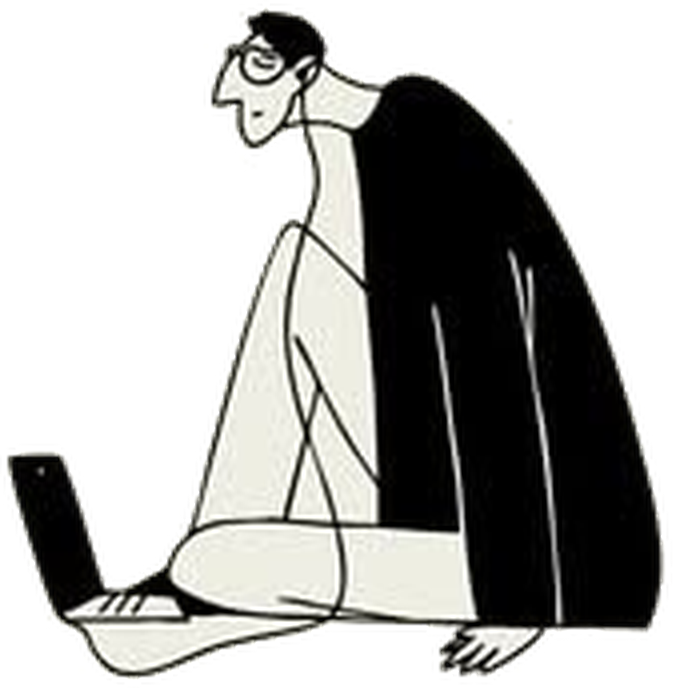
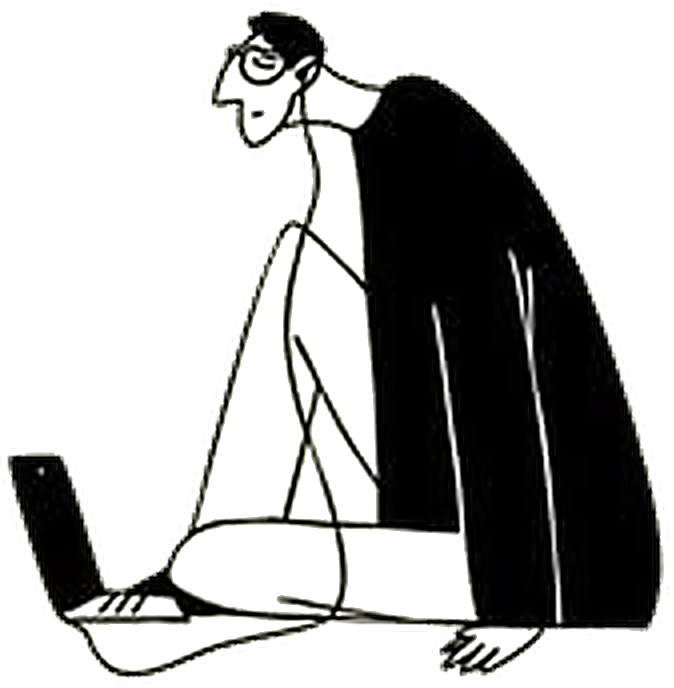
fix: flatten illustration backgrounds to white, sharpen, fill wide-screen gutters, add 3 tool illustrations
Addressed a full-site report with annotated screenshots, not just the
homepage:

1. Cream background seam: every illustration had a near-white paper-fill
   color (#eeeee2-ish) baked into the source art, which didn't match the
   site's pure white / #fafafa containers and read as a visible box around
   the figure. Re-extracted all six from source with a proper fix: any
   near-white pixel in the artwork is now recolored to true #ffffff, alpha
   trim re-run on top of that. Container backgrounds (.card-illus,
   .how-visual img) changed from --bg-alt to pure #ffffff to match exactly.
   No more seam anywhere.

2. The how-it-works blur, re-examined: naturalWidth/Height showed correct
   2:1 downscaling (960px source into a ~470px box), not an under-resolution
   bug — the softness was the browser's bilinear downscale interacting badly
   with fine hairline strokes. Added an UnsharpMask pass (radius 2, 140%) to
   the extraction pipeline for every image; verified visibly crisper.

3. Wide-screen side gutters were genuinely empty on large monitors (the
   report's screenshots, not a guess) — content capped at --maxw while nothing
   occupied the margins. Added a  component: existing
   illustrations placed in the left/right margins of the hero, the
   testimonials+disclaimer band, and the tools.html header, shown only above
   1500px width so laptop/tablet/mobile layouts (already screenshot-checked)
   are untouched.
[…]

diff --git a/tools.html b/tools.html
@@ -151,6 +151,8 @@
 
 <main>
 <div class="tk-page">
+  <img class="gutter-art left" src="scene-two-people.png" alt="" aria-hidden="true" loading="lazy" width="960" height="960" decoding="async" />
+  <img class="gutter-art right" src="scene-quiet-pause.png" alt="" aria-hidden="true" loading="lazy" width="711" height="798" decoding="async" />
   <div class="tk-wrap" style="max-width: 940px;">
 
     <header class="tk-header">
@@ -163,6 +165,7 @@
 
     <section class="tk-hub-grid" aria-label="Tools">
       <article class="tk-hub-card">
+        <img class="tk-hub-visual" src="scene-overwhelm.png" alt="" aria-hidden="true" loading="lazy" width="512" height="416" decoding="async" />
         <p class="eyebrow">Cognitive</p>
         <h2>Cognitive Load &amp; Bandwidth Index</h2>
         <div class="tk-hub-meta">
@@ -173,6 +176,7 @@
       </article>
 
       <article class="tk-hub-card">
+        <img class="tk-hub-visual" src="tool-checklist.png" alt="" aria-hidden="true" loading="lazy" width="494" height="404" decoding="async" />
         <p class="eyebrow">Career</p>
         <h2>Career Friction &amp; Alignment Audit</h2>
         <div class="tk-hub-meta">
@@ -183,6 +187,7 @@
       </article>
 
       <article class="tk-hub-card">
+        <img class="tk-hub-visual" src="tool-robot.png" alt="" aria-hidden="true" loading="lazy" width="352" height="487" decoding="async" />
         <p class="eyebrow">AI &amp; Future of Work</p>
         <h2>AI Automation &amp; Relevance Index</h2>
         <div class="tk-hub-meta">
@@ -193,6 +198,7 @@
       </article>
 
       <article class="tk-hub-card">
+        <img class="tk-hub-visual" src="scene-alone-together.png" alt="" aria-hidden="true" loading="lazy" width="761" height="901" decoding="async" />
         <p class="eyebrow">Financial</p>
         <h2>Abundance Runway Calculator</h2>
         <div class="tk-hub-meta">
@@ -203,6 +209,7 @@
       </article>
 
       <article class="tk-hub-card">
+        <img class="tk-hub-visual" src="scene-focused.png" alt="" aria-hidden="true" loading="lazy" width="674" height="688" decoding="async" />
         <p class="eyebrow">Self-employment</p>
         <h2>Quit-to-Solo Readiness Index</h2>
         <div class="tk-hub-meta">
@@ -213,6 +220,7 @@
       </article>
 
       <article class="tk-hub-card">
+        <img class="tk-hub-visual" src="tool-reflection.png" alt="" aria-hidden="true" loading="lazy" width="486" height="480" decoding="async" />
         <p class="eyebrow">Reflection</p>
         <h2>The list you've been quietly carrying</h2>
         <div class="tk-hub-meta">

diff --git a/styles.css b/styles.css
@@ -210,7 +210,7 @@ main { }
   width: 100%;
   overflow: hidden;
   border-bottom: 1px solid var(--line);
-  background: var(--bg-alt);
+  background: #ffffff;
 }
 .card-illus img, .card-illus svg {
   width: 100%;
@@ -1647,7 +1647,7 @@ main { overflow-x: hidden; }
    Same calming sage palette as the rest of the site.
    ============================================================ */
 
-.tk-page { background: var(--bg); min-height: 80vh; padding: clamp(2rem, 6vw, 4.5rem) var(--pad); }
+.tk-page { background: var(--bg); min-height: 80vh; padding: clamp(2rem, 6vw, 4.5rem) var(--pad); position: relative; }
 .tk-wrap { max-width: 760px; margin: 0 auto; }
 .tk-vh   { position: absolute; left: -10000px; width: 1px; height: 1px; overflow: hidden; }
 
@@ -1957,6 +1957,10 @@ main { overflow-x: hidden; }
 .tk-hub-card:hover {
   border-color: var(--navy);
   background: var(--bg-alt);
+}
+.tk-hub-visual {
+  display: block; width: auto; height: 100px; max-width: 100%;
+  object-fit: contain; margin: 0 0 1rem;
 }
 .tk-hub-card .eyebrow { margin-bottom: 0.75rem; }
 .tk-hub-card h2 {
@@ -2309,6 +2313,17 @@ figure.tile img { margin: 0 auto; }
 .hero-band { position: relative; }
 .hero, .trust-strip { position: relative; z-index: 1; }
 
+/* --- Gutter art: ambient line-art figures in the wide-screen side margins.
+   Only appears once there's real empty space to fill; never shown below
+   1500px so laptop/tablet/mobile layouts are untouched. --- */
+.gutter-art {
+  display: none; position: absolute; top: 50%; transform: translateY(-50%);
+  width: 150px; height: auto; opacity: 0.6; pointer-events: none; z-index: 0;
+}
+.gutter-art.left { left: 2.5vw; }
+.gutter-art.right { right: 2.5vw; }
+@media (min-width: 1500px) { .gutter-art { display: block; } }
+
 /* --- Hero headline word reveal --- */
 .hero h1 .w { display: inline-block; animation: rise 0.6s cubic-bezier(0.2,0.6,0.2,1) backwards; }
 .hero-content h1:has(.w) { animation: none; }
@@ -2353,7 +2368,7 @@ figure.tile img { margin: 0 auto; }
 .how-visual img {
   width: 100%; height: 100%; max-height: 440px;
   object-fit: contain; border-radius: var(--radius); display: block;
-  background: var(--bg-alt); border: 1px solid var(--line);
+  background: #ffffff; border: 1px solid var(--line);
 }
 @media (max-width: 820px) {
   .how-grid { grid-template-columns: 1fr; }

diff --git a/index.html b/index.html
@@ -203,6 +203,8 @@
 
   <!-- HERO -->
   <div class="hero-band">
+  <img class="gutter-art left" src="scene-focused.png" alt="" aria-hidden="true" loading="lazy" width="674" height="688" decoding="async" />
+  <img class="gutter-art right" src="scene-quiet-pause.png" alt="" aria-hidden="true" loading="lazy" width="711" height="798" decoding="async" />
   <section class="hero">
     <div class="hero-content">
       <p class="eyebrow">Vaibhav Jain · ICF PCC Executive &amp; Life Coach · Andheri West, Mumbai</p>
@@ -425,6 +427,9 @@
   </section>
 
   <!-- TESTIMONIALS -->
+  <div style="position:relative;">
+  <img class="gutter-art left" src="scene-alone-together.png" alt="" aria-hidden="true" loading="lazy" width="761" height="901" decoding="async" />
+  <img class="gutter-art right" src="tool-reflection.png" alt="" aria-hidden="true" loading="lazy" width="486" height="480" decoding="async" />
   <section class="band" id="testimonials" aria-labelledby="testimonials-h">
     <h2 id="testimonials-h" class="section-title">What people say.</h2>
     <p class="section-sub">Shared with written permission, in clients' own words. Names withheld. That's the rule here, not a choice.</p>
@@ -466,6 +471,7 @@
       </div>
     </div>
   </section>
+  </div><!-- /gutter-art wrapper -->
 
   <!-- FAQ -->
   <section class="band" id="faq" aria-labelledby="faq-h">
